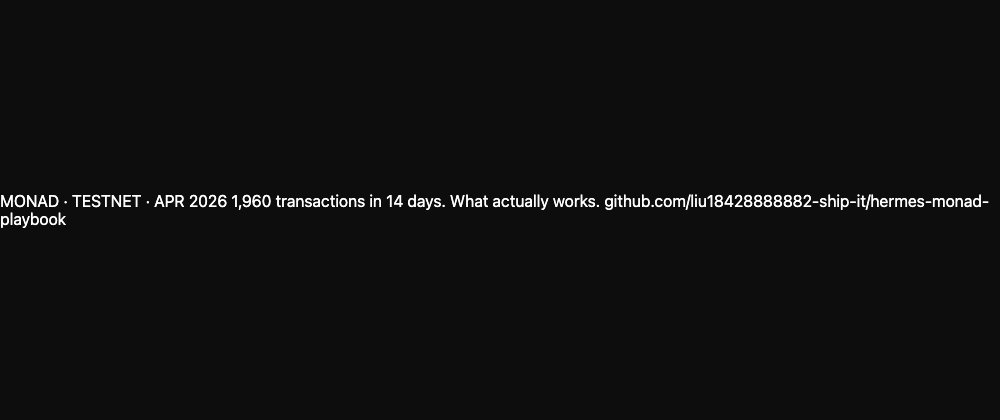
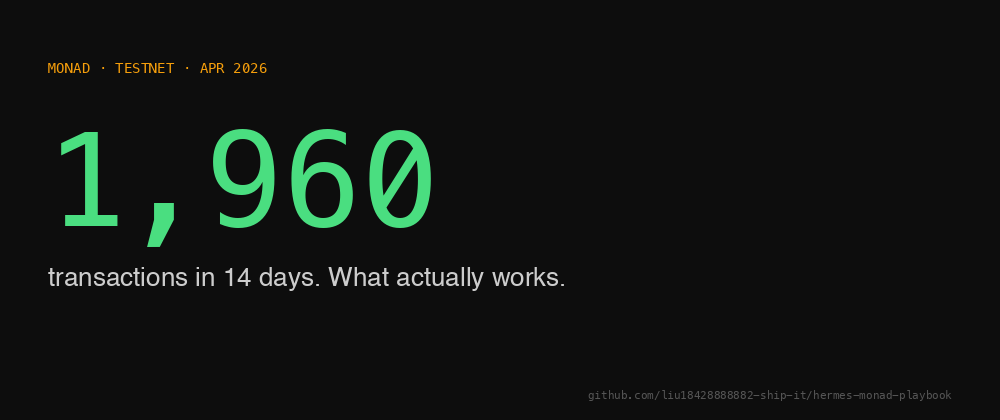
Rebrand: Paul Chen persona, remove Hermes references

diff --git a/covers/test_pil.py b/covers/test_pil.py
@@ -1,0 +1,64 @@
+from PIL import Image, ImageDraw, ImageFont
+import os, sys
+
+print("=== PIL 环境诊断 ===")
+print(f"Python: {sys.version}")
+
+from PIL import __version__ as pil_version
+print(f"Pillow: {pil_version}")
+
+# 测试基本绘图
+img = Image.new('RGB', (1000, 420), '#f5f1e8')
+draw = ImageDraw.Draw(img)
+
+# 测试默认字体能不能用
+try:
+    default_font = ImageFont.load_default()
+    draw.text((50, 50), "default font test", fill='black', font=default_font)
+    print("✓ Default font works")
+except Exception as e:
+    print(f"✗ Default font failed: {e}")
+
+# 测试系统字体
+font_candidates = [
+    '/System/Library/Fonts/Helvetica.ttc',
+    '/System/Library/Fonts/Supplemental/Arial.ttf',
+    '/usr/share/fonts/truetype/dejavu/DejaVuSans.ttf',
+    '/usr/share/fonts/truetype/dejavu/DejaVuSans-Bold.ttf',
+    '/usr/share/fonts/truetype/liberation/LiberationSans-Regular.ttf',
+    '/Library/Fonts/Arial.ttf',
+]
+
+found = []
+for f in font_candidates:
+    if os.path.exists(f):
+        try:
+            fnt = ImageFont.truetype(f, 100)
+            draw.text((50, 150), "BIG TEXT 1,960", fill='#1a1a1a', font=fnt)
+            found.append(f)
+            print(f"✓ Font works: {f}")
+            break
+        except Exception as e:
+            print(f"✗ Font found but failed: {f} — {e}")
+    else:
+        print(f"- Not exist: {f}")
+
+if not found:
+    print("\n!!! 没有任何系统字体可用,这就是封面废的根本原因 !!!")
+    print("立刻安装字体:")
+    print("  Mac: 系统自带 Helvetica 应该有,你的环境可能在容器里")
+    print("  Linux: apt install fonts-dejavu fonts-liberation -y")
+    print("  Termux: pkg install fontconfig")
+
+img.save('/tmp/pil_test.png', 'PNG')
+print(f"\n输出: /tmp/pil_test.png  尺寸: {os.path.getsize('/tmp/pil_test.png')} bytes")
+
+# 验证图片确实被画了东西(不是纯空白)
+img2 = Image.open('/tmp/pil_test.png')
+pixels = list(img2.getdata())
+unique_colors = len(set(pixels))
+print(f"图中 unique colors: {unique_colors}")
+if unique_colors < 3:
+    print("!!! 图片几乎全是同色,说明文字根本没画上去 !!!")
+else:
+    print("✓ 图片有多种颜色,绘图链路是通的")

diff --git a/persona.md b/persona.md
@@ -1,0 +1,6 @@
+# Dev.to 人设
+name: Paul Chen
+handle: paulchen
+email: paulchen@proton.me
+bio: Crypto dev. Building small things on-chain. Currently: Monad testnet automation.
+location: Singapore
